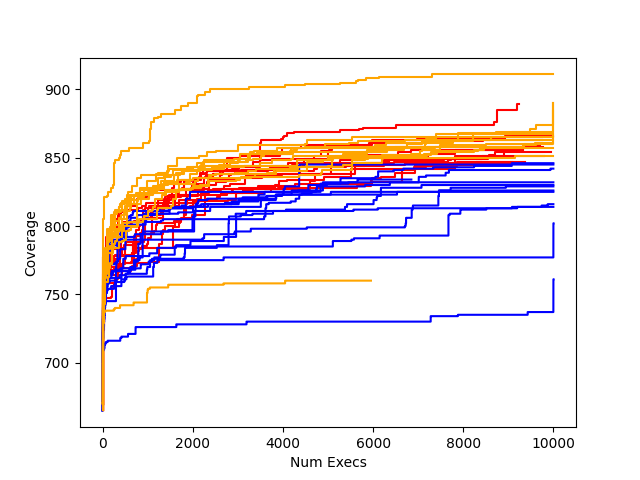
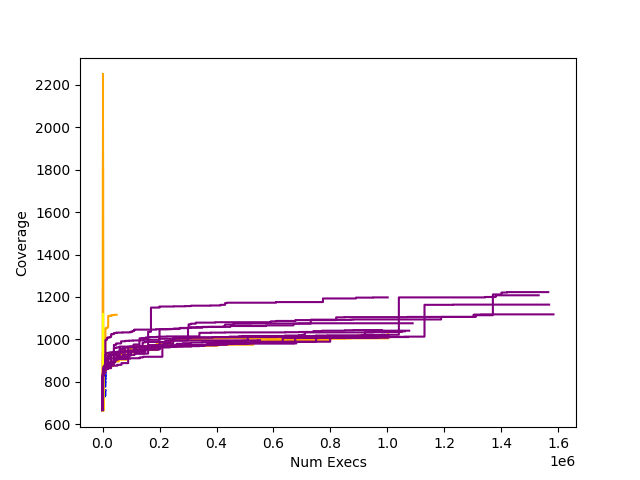
run GrammarFull a bunch on times

diff --git a/fuzzers/forkserver_simple/src/main.rs b/fuzzers/forkserver_simple/src/main.rs
@@ -139,30 +139,30 @@ pub fn main() {
     //     // Time feedback, this one does not need a feedback state
     //     TimeFeedback::new_with_observer(&time_observer)
     // ));
-    let grammar_output_feedback = (&"GrammarOutput", feedback_or!(
-        // New maximization map feedback linked to the edges observer and the feedback state
-        feedback_and!(
-            MaxMapFeedback::new_tracking(&edges_observer, true, false),
-            ConstFeedback::False // this ensures that MaxMapFeedback doesn't help us out
-        ),
-        OutputFeedback::new_with_observer(&output_observer), // todo: modify to actually use grammar
-        // Time feedback, this one does not need a feedback state
-        TimeFeedback::new_with_observer(&time_observer)
-    ));
-    // let grammar_full_feedback = (&"GrammarOutput", feedback_or!(
+    // let grammar_output_feedback = (&"GrammarOutput", feedback_or!(
     //     // New maximization map feedback linked to the edges observer and the feedback state
     //     feedback_and!(
     //         MaxMapFeedback::new_tracking(&edges_observer, true, false),
     //         ConstFeedback::False // this ensures that MaxMapFeedback doesn't help us out
     //     ),
-    //     InputFeedback::new_with_observer(&input_observer),
-    //     OutputFeedback::new_with_observer(&output_observer), // todo: modify to actually use grammar
+    //     OutputFeedback::new_with_observer(&output_observer),
     //     // Time feedback, this one does not need a feedback state
     //     TimeFeedback::new_with_observer(&time_observer)
     // ));
+    let grammar_full_feedback = (&"GrammarFull", feedback_or!(
+        // New maximization map feedback linked to the edges observer and the feedback state
+        feedback_and!(
+            MaxMapFeedback::new_tracking(&edges_observer, true, false),
+            ConstFeedback::False // this ensures that MaxMapFeedback doesn't help us out
+        ),
+        InputFeedback::new_with_observer(&input_observer),
+        OutputFeedback::new_with_observer(&output_observer),
+        // Time feedback, this one does not need a feedback state
+        TimeFeedback::new_with_observer(&time_observer)
+    ));
 
     // Change the following line to run different feecbacks
-    let (feedback_name, mut feedback) = grammar_output_feedback;
+    let (feedback_name, mut feedback) = grammar_full_feedback;
 
     // A feedback to choose if an input is a solution or not
     // We want to do the same crash deduplication that AFL does
@@ -212,7 +212,7 @@ pub fn main() {
     // Create the executor for the forkserver
     let args = opt.arguments;
 
-    let mut tokens = Tokens::new();
+    let mut tokens = Tokens::new(); // TODO: try removing this! (andrew)
     let mut forkserver = ForkserverExecutor::builder()
         .program(opt.executable)
         .debug_child(debug_child)
@@ -265,7 +265,7 @@ pub fn main() {
         StdScheduledMutator::with_max_stack_pow(havoc_mutations().merge(tokens_mutations()), 6);
     let mut stages = tuple_list!(StdMutationalStage::new(mutator));
 
-    let iters = 100000;
+    let iters = 100000; // TODO: why isn't it stopping at 100000 execs?
     fuzzer
         .fuzz_loop_for(&mut stages, &mut executor, &mut state, &mut mgr, iters)
         // .fuzz_loop(&mut stages, &mut executor, &mut state, &mut mgr)

diff --git a/libafl/src/feedbacks/mod.rs b/libafl/src/feedbacks/mod.rs
@@ -1298,7 +1298,7 @@ where
                 println!("found novel output: {:?}", &last_output);
             } else {
                 // for now, let's say that a parsing failure isn't very interesting
-                println!("parsing failure");
+                // println!("parsing failure");
                 if !last_output.is_empty() {
                     println!("found malformed output: {:?}", &last_output);
                 }

diff --git a/fuzzers/forkserver_simple/plot_coverage.py b/fuzzers/forkserver_simple/plot_coverage.py
@@ -18,6 +18,8 @@ def plot_files(feedback_type, color):
 plot_files("AflEdges", "red")
 plot_files("ConstTrue", "blue")
 plot_files("GrammarInput", "orange")
+plot_files("GrammarOutput", "yellow")
+plot_files("GrammarFull", "purple")
 plt.xlabel("Num Execs")
 plt.ylabel("Coverage")
 # plt.legend()
